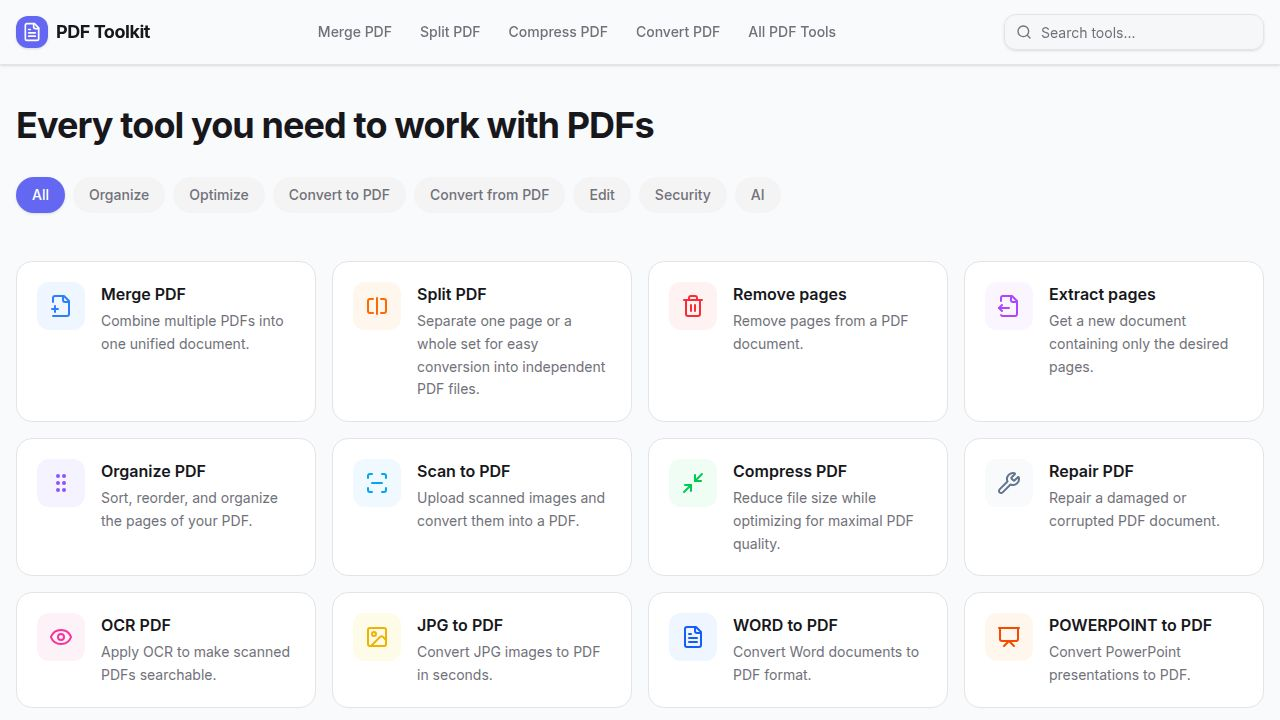
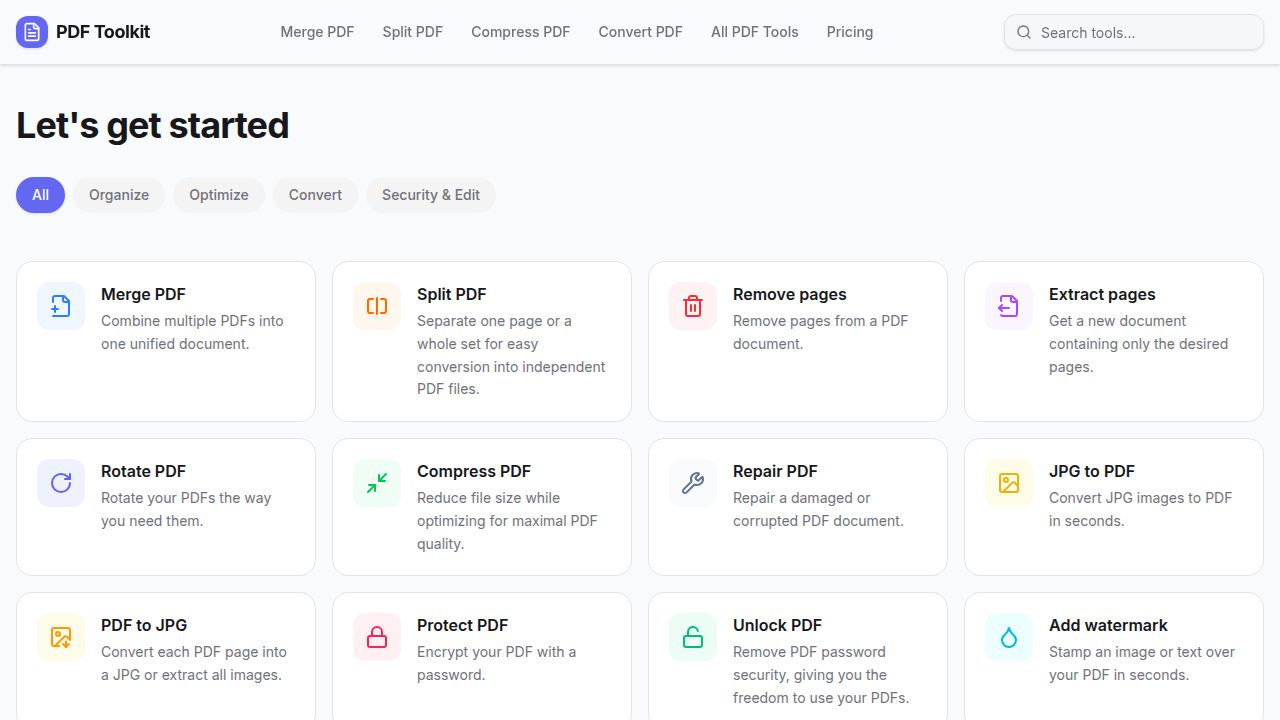
Add pricing page to PDF Toolkit app (Task #3)
- Created src/pages/pricing.tsx with three plan tier cards (Free, Premium, Business)
  - Free: $0/forever, basic limits (25MB, 2 files), some features excluded
  - Premium: $7/month, highlighted as "Most Popular", expanded limits (200MB, 10 files), all features included
  - Business: $15/user/month, enterprise features (500MB, unlimited batch, API, SSO)
  - Each card shows feature checklist with included/excluded indicators and a CTA button
- Registered /pricing route in App.tsx
- Added "Pricing" link to navLinks array in Layout.tsx (appears in both desktop and mobile navigation)
- Uses existing Layout wrapper, shadcn/ui Card and Button components, Lucide icons, and Tailwind CSS
- Fully responsive: single column on mobile, three columns on md+ breakpoints
- No backend changes; purely frontend/static page as specified
- Code review passed, e2e tests passed

Replit-Task-Id: e8f52c25-3f44-492c-8572-0bc842518feb

diff --git a/artifacts/pdf-toolkit/src/pages/pricing.tsx b/artifacts/pdf-toolkit/src/pages/pricing.tsx
@@ -1,0 +1,154 @@
+import { Layout } from "@/components/Layout";
+import { Button } from "@/components/ui/button";
+import { Card, CardHeader, CardTitle, CardDescription, CardContent, CardFooter } from "@/components/ui/card";
+import { Check, X, Star, Zap, Building2 } from "lucide-react";
+
+const plans = [
+  {
+    name: "Free",
+    description: "For occasional personal use",
+    price: "$0",
+    period: "forever",
+    icon: Zap,
+    iconColor: "text-muted-foreground",
+    highlighted: false,
+    cta: "Get Started",
+    features: [
+      { text: "Access to all PDF tools", included: true },
+      { text: "Up to 25 MB file size", included: true },
+      { text: "Process 2 files at a time", included: true },
+      { text: "Standard compression", included: true },
+      { text: "Community support", included: true },
+      { text: "Batch processing", included: false },
+      { text: "Priority processing queue", included: false },
+      { text: "No watermark on output", included: false },
+    ],
+  },
+  {
+    name: "Premium",
+    description: "For professionals and power users",
+    price: "$7",
+    period: "/month",
+    icon: Star,
+    iconColor: "text-yellow-500",
+    highlighted: true,
+    cta: "Upgrade to Premium",
+    features: [
+      { text: "Access to all PDF tools", included: true },
+      { text: "Up to 200 MB file size", included: true },
+      { text: "Process 10 files at a time", included: true },
+      { text: "Maximum compression", included: true },
+      { text: "Priority email support", included: true },
+      { text: "Batch processing", included: true },
+      { text: "Priority processing queue", included: true },
+      { text: "No watermark on output", included: true },
+    ],
+  },
+  {
+    name: "Business",
+    description: "For teams and organizations",
+    price: "$15",
+    period: "/user/month",
+    icon: Building2,
+    iconColor: "text-blue-500",
+    highlighted: false,
+    cta: "Contact Sales",
+    features: [
+      { text: "Everything in Premium", included: true },
+      { text: "Up to 500 MB file size", included: true },
+      { text: "Unlimited batch processing", included: true },
+      { text: "Team management dashboard", included: true },
+      { text: "Dedicated account manager", included: true },
+      { text: "Custom branding & watermarks", included: true },
+      { text: "API access", included: true },
+      { text: "SSO & advanced security", included: true },
+    ],
+  },
+];
+
+export default function Pricing() {
+  return (
+    <Layout>
+      <div className="container mx-auto px-4 py-12 md:py-16">
+        <div className="text-center mb-12">
+          <h1 className="text-3xl md:text-4xl font-bold tracking-tight text-foreground mb-3" data-testid="heading-pricing">
+            Simple, transparent pricing
+          </h1>
+          <p className="text-lg text-muted-foreground max-w-2xl mx-auto">
+            Choose the plan that fits your needs. Upgrade or downgrade anytime.
+          </p>
+        </div>
+
+        <div className="grid grid-cols-1 md:grid-cols-3 gap-6 max-w-5xl mx-auto items-stretch">
+          {plans.map((plan) => {
+            const Icon = plan.icon;
+            return (
+              <Card
+                key={plan.name}
+                className={`flex flex-col relative ${
+                  plan.highlighted
+                    ? "border-primary shadow-lg ring-2 ring-primary/20 scale-[1.02]"
+                    : ""
+                }`}
+                data-testid={`card-plan-${plan.name.toLowerCase()}`}
+              >
+                {plan.highlighted && (
+                  <div className="absolute -top-3 left-1/2 -translate-x-1/2">
+                    <span className="bg-primary text-primary-foreground text-xs font-semibold px-3 py-1 rounded-full shadow-sm">
+                      Most Popular
+                    </span>
+                  </div>
+                )}
+
+                <CardHeader className="text-center pb-2">
+                  <div className={`w-10 h-10 rounded-lg flex items-center justify-center mx-auto mb-2 bg-muted ${plan.iconColor}`}>
+                    <Icon className="w-5 h-5" />
+                  </div>
+                  <CardTitle className="text-xl">{plan.name}</CardTitle>
+                  <CardDescription>{plan.description}</CardDescription>
+                </CardHeader>
+
+                <CardContent className="flex-1">
+                  <div className="text-center mb-6">
+                    <span className="text-4xl font-bold text-foreground">{plan.price}</span>
+                    <span className="text-muted-foreground ml-1">{plan.period}</span>
+                  </div>
+
+                  <ul className="space-y-3">
+                    {plan.features.map((feature) => (
+                      <li key={feature.text} className="flex items-start gap-2 text-sm">
+                        {feature.included ? (
+                          <Check className="w-4 h-4 text-green-500 mt-0.5 shrink-0" />
+                        ) : (
+                          <X className="w-4 h-4 text-muted-foreground/40 mt-0.5 shrink-0" />
+                        )}
+                        <span className={feature.included ? "text-foreground" : "text-muted-foreground/60"}>
+                          {feature.text}
+                        </span>
+                      </li>
+                    ))}
+                  </ul>
+                </CardContent>
+
+                <CardFooter className="pt-4">
+                  <Button
+                    className="w-full"
+                    variant={plan.highlighted ? "default" : "outline"}
+                    size="lg"
+                    data-testid={`btn-${plan.name.toLowerCase()}-cta`}
+                  >
+                    {plan.cta}
+                  </Button>
+                </CardFooter>
+              </Card>
+            );
+          })}
+        </div>
+
+        <div className="text-center mt-12 text-sm text-muted-foreground">
+          <p>All plans include HTTPS encryption and secure file handling. Files are automatically deleted after processing.</p>
+        </div>
+      </div>
+    </Layout>
+  );
+}

diff --git a/artifacts/pdf-toolkit/src/App.tsx b/artifacts/pdf-toolkit/src/App.tsx
@@ -38,6 +38,7 @@ import RedactPdf from "@/pages/redact";
 import ComparePdf from "@/pages/compare";
 import AiSummarizer from "@/pages/ai-summarizer";
 import TranslatePdf from "@/pages/translate";
+import Pricing from "@/pages/pricing";
 
 import Features from "@/pages/features";
 import Tools from "@/pages/tools";
@@ -202,6 +203,7 @@ function ClerkProviderWithRoutes() {
             <Route path="/contact" component={Contact} />
             <Route path="/blog" component={Blog} />
             <Route path="/press" component={Press} />
+            <Route path="/pricing" component={Pricing} />
 
             <Route component={NotFound} />
           </Switch>

diff --git a/artifacts/pdf-toolkit/src/components/Layout.tsx b/artifacts/pdf-toolkit/src/components/Layout.tsx
@@ -16,6 +16,7 @@ const navLinks = [
   { href: "/compress", label: "Compress PDF" },
   { href: "/pdf-to-images", label: "Convert PDF" },
   { href: "/", label: "All PDF Tools" },
+  { href: "/pricing", label: "Pricing" },
 ];
 
 function UserMenu() {
